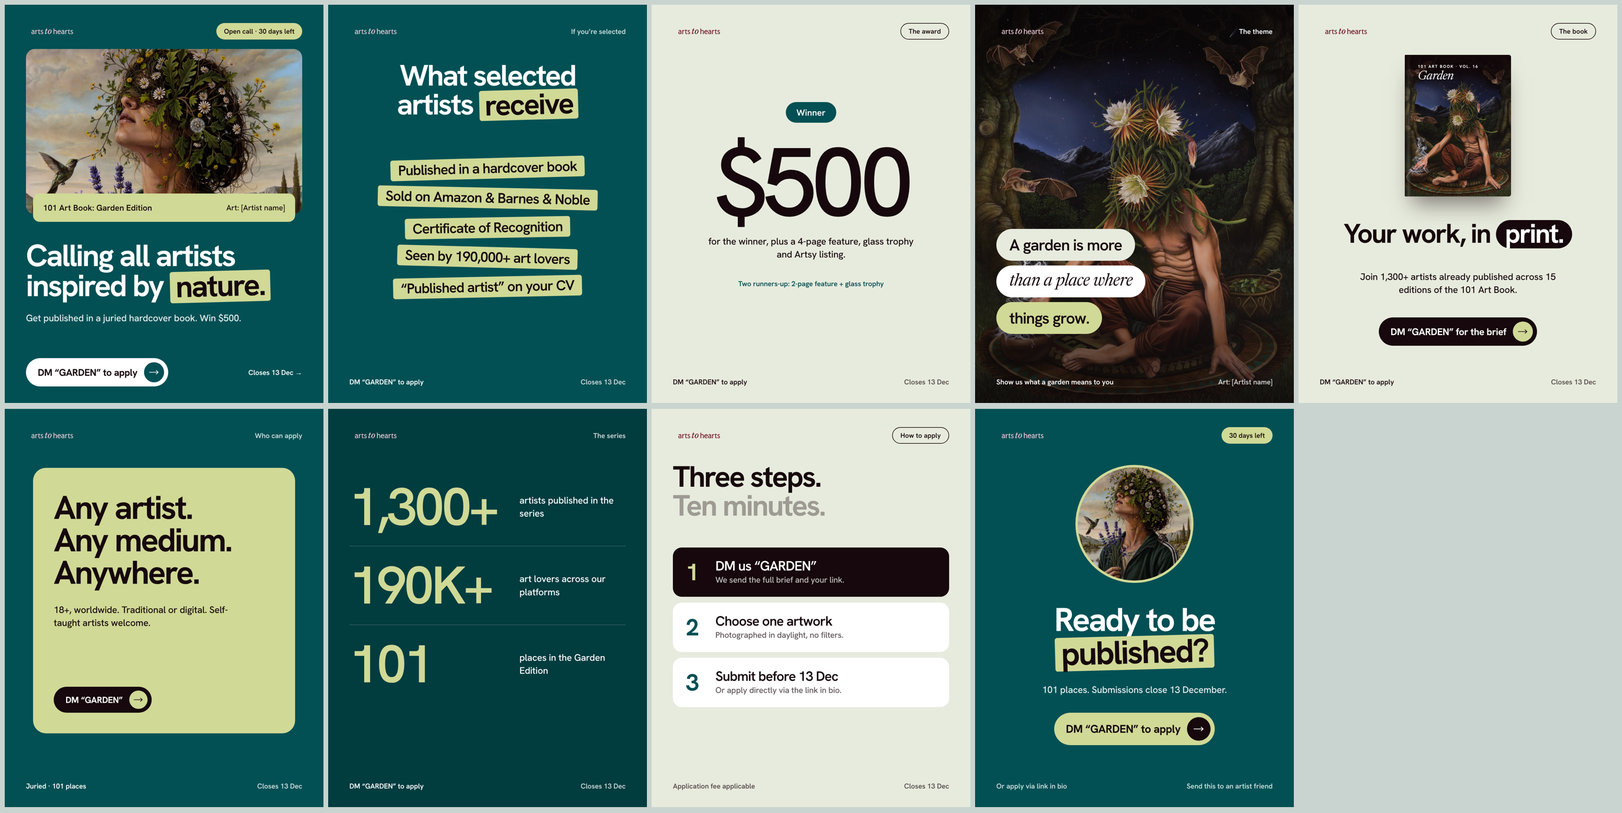
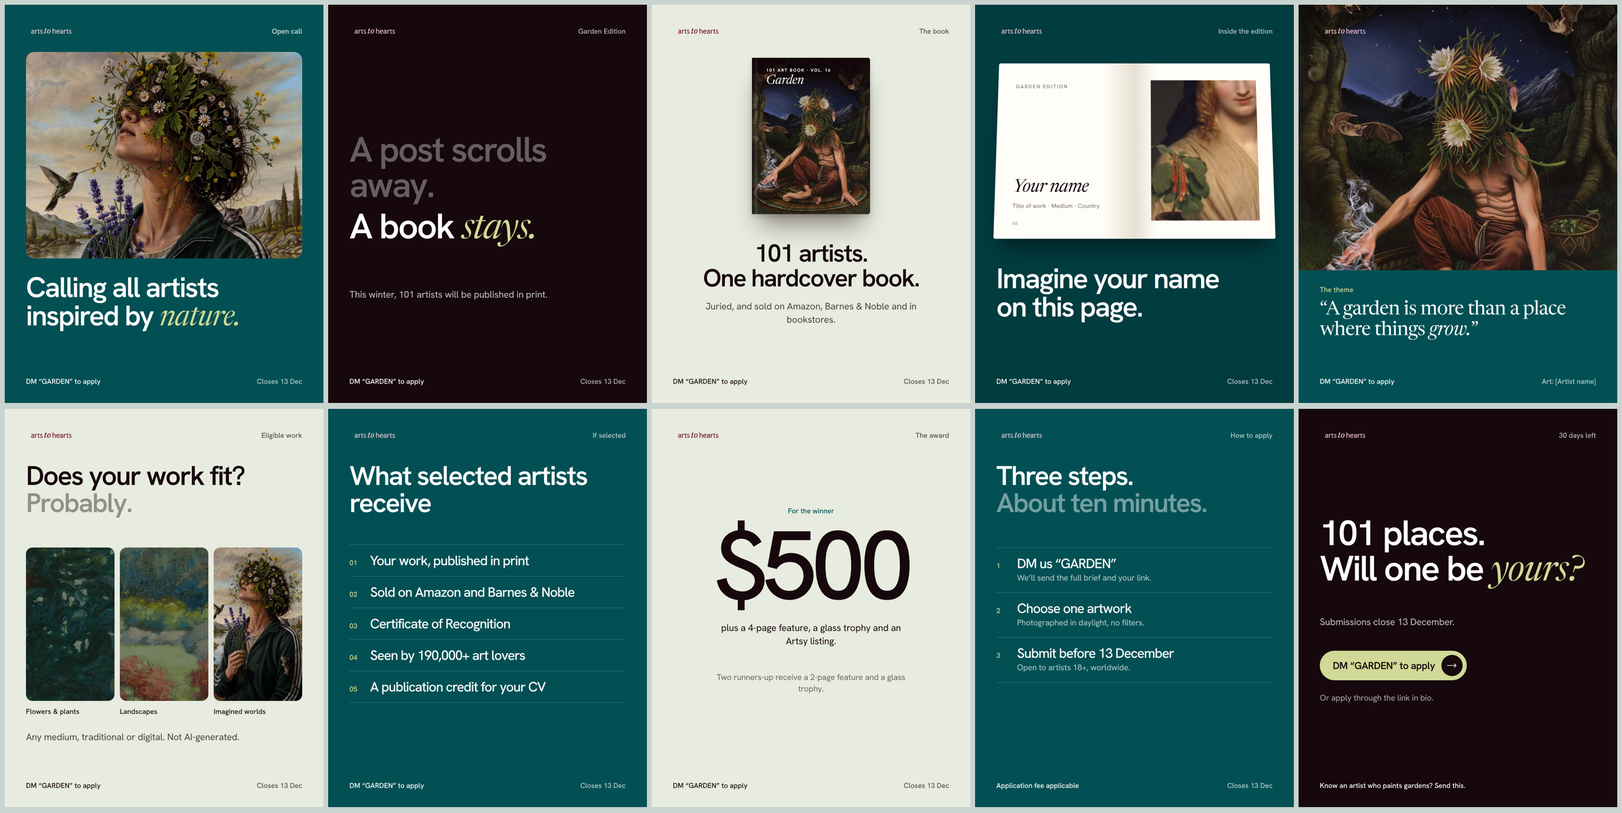
Garden launch v8: calmer cover, uncovered theme art, pattern-break slides
Claude-Session: https://claude.ai/code/session_01Bc4gkdxg6i3YRuybqzVB3k

diff --git a/design/campaigns/open-calls/launch-bf.html b/design/campaigns/open-calls/launch-bf.html
@@ -3,134 +3,141 @@
 <style>
 @font-face{font-family:HG;src:url(fonts/ath/HankenGrotesk.woff2) format("woff2");font-weight:100 900}
 @font-face{font-family:NR;src:url(fonts/ath/Newsreader-Italic.woff2) format("woff2");font-style:italic;font-weight:200 800}
-:root{--pet:#025054;--pet2:#013C3F;--pi:#D0D996;--mint:#E7EBDD;--ink:#16080C;--burg:#6A0620;--paper:#FAF8F3}
+@font-face{font-family:NR;src:url(fonts/ath/Newsreader.woff2) format("woff2");font-weight:200 800}
+:root{--pet:#025054;--pet2:#013C3F;--pi:#D0D996;--mint:#E8EBDF;--ink:#16080C;--paper:#FAF8F3}
 body{margin:0;background:#C9D3CF;display:flex;flex-wrap:wrap;gap:40px;padding:40px}
 .s{position:relative;width:1080px;height:1350px;overflow:hidden;font-family:HG,sans-serif;-webkit-font-smoothing:antialiased}
 .s *{margin:0;box-sizing:border-box}
 .a{position:absolute}
 .dk{background:var(--pet);color:#fff}.lt{background:var(--mint);color:var(--ink)}
-/* type: bold grotesk for headlines, one italic serif accent at most */
-.H{font-weight:700;letter-spacing:-.045em;line-height:.98}
-.H2{font-weight:600;letter-spacing:-.035em;line-height:1.05}
+.H{font-weight:600;letter-spacing:-.042em;line-height:1}
 .it{font-family:NR,serif;font-style:italic;font-weight:400;letter-spacing:-.02em}
-.p{font-size:32px;font-weight:500;line-height:1.38;letter-spacing:-.01em}
-.l{font-size:24px;font-weight:600;letter-spacing:-.005em}
-.mk{display:inline-block;background:var(--pi);color:var(--ink);padding:0 .18em .04em;border-radius:8px;transform:rotate(-1.5deg)}
+.p{font-size:32px;font-weight:400;line-height:1.4;letter-spacing:-.01em}
+.l{font-size:24px;font-weight:500}
 .img{background-size:cover;background-repeat:no-repeat}
 .top{left:72px;right:72px;top:62px;display:flex;justify-content:space-between;align-items:center}
-.top img{height:56px}
-.bot{left:72px;right:72px;bottom:56px;display:flex;justify-content:space-between;align-items:center}
-.btn{display:inline-flex;align-items:center;gap:22px;height:96px;padding:0 14px 0 40px;border-radius:999px;font-size:33px;font-weight:700;letter-spacing:-.02em;white-space:nowrap}
-.btn i{width:68px;height:68px;border-radius:50%;display:inline-flex;align-items:center;justify-content:center;font-style:normal}
-.tag{display:inline-flex;align-items:center;height:56px;padding:0 26px;border-radius:999px;font-size:23px;font-weight:600;white-space:nowrap}
+.top img{height:54px}
+.bot{left:72px;right:72px;bottom:58px;display:flex;justify-content:space-between;align-items:center;font-size:24px;font-weight:500}
+.bot span:last-child{opacity:.7}
+.btn{display:inline-flex;align-items:center;gap:22px;height:100px;padding:0 14px 0 44px;border-radius:999px;font-size:34px;font-weight:600;letter-spacing:-.02em;white-space:nowrap}
+.btn i{width:72px;height:72px;border-radius:50%;display:inline-flex;align-items:center;justify-content:center;font-style:normal}
+.row{display:grid;grid-template-columns:70px 1fr;align-items:baseline;padding:30px 0;border-top:1.5px solid currentColor}
 </style></head><body>
 <svg width="0" height="0" style="position:absolute"><symbol id="ar" viewBox="0 0 46 20"><path d="M2 10h40M33 2l9 8-9 8" fill="none" stroke="currentColor" stroke-width="3" stroke-linecap="round" stroke-linejoin="round"/></symbol></svg>
 
-<!-- 1 · HOOK -->
+<!-- 1 · COVER: one image, one line, one action -->
 <div class="s dk" id="s1">
-  <div class="a top"><img src="art/logo-no-project_peony.svg"><span class="tag" style="background:var(--pi);color:var(--ink)">Open call · 30 days left</span></div>
-  <div class="a img" style="left:72px;right:72px;top:150px;height:560px;border-radius:30px;background-image:url(art/flower-portrait.jpg);background-position:center 16%"></div>
-  <div class="a" style="left:96px;right:96px;top:640px;height:96px;border-radius:22px;background:var(--pi);color:var(--ink);display:flex;align-items:center;justify-content:space-between;padding:0 34px">
-    <span style="font-size:28px;font-weight:600">101 Art Book: Garden Edition</span><span style="font-size:26px;font-weight:500">Art: [Artist name]</span></div>
-  <h1 class="a H" style="left:72px;right:60px;top:800px;font-size:104px">Calling all artists inspired by <span class="mk">nature.</span></h1>
-  <p class="a p" style="left:72px;right:120px;top:1040px;opacity:.9">Get published in a juried hardcover book. Win $500.</p>
-  <div class="a bot"><span class="btn" style="background:#fff;color:var(--ink)">DM “GARDEN” to apply<i style="background:var(--pet);color:#fff"><svg width="34" height="16"><use href="#ar"/></svg></i></span><span class="l">Closes 13 Dec →</span></div>
+  <div class="a top"><img src="art/logo-no-project_peony.svg"><span class="l" style="opacity:.85">Open call</span></div>
+  <div class="a img" style="left:72px;right:72px;top:160px;height:700px;border-radius:28px;background-image:url(art/flower-portrait.jpg);background-position:center 14%"></div>
+  <h1 class="a H" style="left:72px;right:72px;top:910px;font-size:96px">Calling all artists inspired by <span class="it" style="color:var(--pi)">nature.</span></h1>
+  <div class="a bot"><span>DM “GARDEN” to apply</span><span>Closes 13 Dec</span></div>
 </div>
 
-<!-- 2 · WHAT YOU GET (Pixel list) -->
-<div class="s dk" id="s2">
-  <div class="a top"><img src="art/logo-no-project_peony.svg"><span class="l" style="opacity:.8">If you’re selected</span></div>
-  <h2 class="a H" style="left:72px;right:72px;top:190px;font-size:100px;text-align:center">What selected<br>artists <span class="mk">receive</span></h2>
-  <div class="a" style="left:0;right:0;top:520px;display:flex;flex-direction:column;align-items:center;gap:30px">
-    <span class="mk H2" style="font-size:48px;padding:10px 26px;transform:rotate(-1.5deg)">Published in a hardcover book</span>
-    <span class="mk H2" style="font-size:48px;padding:10px 26px;transform:rotate(1.2deg)">Sold on Amazon &amp; Barnes &amp; Noble</span>
-    <span class="mk H2" style="font-size:48px;padding:10px 26px;transform:rotate(-1deg)">Certificate of Recognition</span>
-    <span class="mk H2" style="font-size:48px;padding:10px 26px;transform:rotate(1.5deg)">Seen by 190,000+ art lovers</span>
-    <span class="mk H2" style="font-size:48px;padding:10px 26px;transform:rotate(-1.2deg)">“Published artist” on your CV</span>
-  </div>
-  <div class="a bot"><span class="l">DM “GARDEN” to apply</span><span class="l" style="opacity:.8">Closes 13 Dec</span></div>
+<!-- 2 · PATTERN BREAK: the reason to care -->
+<div class="s" id="s2" style="background:var(--ink);color:#fff">
+  <div class="a top"><img src="art/logo-no-project_peony.svg"><span class="l" style="opacity:.7">Garden Edition</span></div>
+  <p class="a H" style="left:72px;right:72px;top:430px;font-size:120px;opacity:.35">A post scrolls away.</p>
+  <p class="a H" style="left:72px;right:72px;top:690px;font-size:120px">A book <span class="it" style="color:var(--pi)">stays.</span></p>
+  <p class="a p" style="left:72px;right:300px;top:960px;opacity:.75">This winter, 101 artists will be published in print.</p>
+  <div class="a bot"><span>DM “GARDEN” to apply</span><span>Closes 13 Dec</span></div>
 </div>
 
-<!-- 3 · THE AWARD (92% style) -->
+<!-- 3 · THE BOOK -->
 <div class="s lt" id="s3">
-  <div class="a top"><img src="art/logo-no-project_burgundy.svg"><span class="tag" style="border:2px solid var(--ink)">The award</span></div>
-  <span class="a tag" style="left:50%;top:330px;transform:translateX(-50%);height:70px;padding:0 36px;font-size:30px;background:var(--pet);color:#fff">Winner</span>
-  <p class="a H" style="left:0;right:0;top:440px;text-align:center;font-size:330px;font-weight:500;letter-spacing:-.06em">$500</p>
-  <p class="a p" style="left:180px;right:180px;top:780px;text-align:center">for the winner, plus a 4-page feature, glass trophy and Artsy listing.</p>
-  <p class="a l" style="left:0;right:0;top:930px;text-align:center;color:var(--pet)">Two runners-up: 2-page feature + glass trophy</p>
-  <div class="a bot"><span class="l">DM “GARDEN” to apply</span><span class="l" style="opacity:.7">Closes 13 Dec</span></div>
-</div>
-
-<!-- 4 · THE THEME (image + pill stack) -->
-<div class="s" id="s4" style="color:#fff">
-  <div class="a img" style="inset:0;background-image:url(art/night-bloom.jpg);background-position:center 40%"></div>
-  <div class="a" style="inset:0;background:linear-gradient(180deg,rgba(10,6,8,.55),rgba(10,6,8,0) 28%,rgba(10,6,8,0) 60%,rgba(10,6,8,.75))"></div>
-  <div class="a top"><img src="art/logo-no-project_peony.svg"><span class="l">The theme</span></div>
-  <div class="a" style="left:72px;right:72px;top:760px;display:flex;flex-direction:column;align-items:flex-start;gap:16px">
-    <span class="tag H2" style="height:108px;padding:0 44px;font-size:54px;background:var(--mint);color:var(--ink)">A garden is more</span>
-    <span class="tag" style="height:108px;padding:0 44px;font-size:58px;background:#fff;color:var(--ink)"><span class="it">than a place where</span></span>
-    <span class="tag H2" style="height:108px;padding:0 44px;font-size:54px;background:var(--pi);color:var(--ink)">things grow.</span>
-  </div>
-  <div class="a bot"><span class="l">Show us what a garden means to you</span><span class="l" style="opacity:.8">Art: [Artist name]</span></div>
-</div>
-
-<!-- 5 · THE BOOK -->
-<div class="s lt" id="s5">
-  <div class="a top"><img src="art/logo-no-project_burgundy.svg"><span class="tag" style="border:2px solid var(--ink)">The book</span></div>
-  <div class="a" style="left:360px;top:170px;width:360px;height:480px;border-radius:3px 8px 8px 3px;overflow:hidden;box-shadow:0 50px 70px -26px rgba(22,8,12,.5)">
+  <div class="a top"><img src="art/logo-no-project_burgundy.svg"><span class="l" style="opacity:.7">The book</span></div>
+  <div class="a" style="left:340px;top:180px;width:400px;height:530px;border-radius:3px 8px 8px 3px;overflow:hidden;box-shadow:0 60px 80px -30px rgba(22,8,12,.5),0 8px 18px rgba(22,8,12,.15)">
     <div class="a img" style="inset:0;background-image:url(art/night-bloom.jpg);background-position:center 35%"></div>
-    <div class="a" style="left:0;top:0;bottom:0;width:22px;background:linear-gradient(90deg,rgba(0,0,0,.4),rgba(255,255,255,.12) 60%,rgba(0,0,0,.12))"></div>
-    <div class="a" style="left:0;right:0;top:0;height:130px;background:linear-gradient(180deg,rgba(20,6,10,.8),rgba(20,6,10,0))"></div>
-    <p class="a" style="left:44px;top:30px;color:#fff;font-size:14px;font-weight:700;letter-spacing:.16em">101 ART BOOK · VOL. 16</p>
-    <p class="a it" style="left:44px;top:52px;color:#fff;font-size:42px">Garden</p>
+    <div class="a" style="left:0;top:0;bottom:0;width:24px;background:linear-gradient(90deg,rgba(0,0,0,.4),rgba(255,255,255,.12) 60%,rgba(0,0,0,.12))"></div>
+    <div class="a" style="left:0;right:0;top:0;height:140px;background:linear-gradient(180deg,rgba(20,6,10,.8),rgba(20,6,10,0))"></div>
+    <p class="a" style="left:48px;top:32px;color:#fff;font-size:15px;font-weight:700;letter-spacing:.16em">101 ART BOOK · VOL. 16</p>
+    <p class="a it" style="left:48px;top:56px;color:#fff;font-size:44px">Garden</p>
   </div>
-  <h2 class="a H" style="left:72px;right:72px;top:730px;font-size:92px;text-align:center">Your work, in <span class="tag" style="height:auto;padding:0 30px 6px;font-size:92px;font-weight:700;letter-spacing:-.045em;background:var(--ink);color:#fff">print.</span></h2>
-  <p class="a p" style="left:150px;right:150px;top:900px;text-align:center">Join 1,300+ artists already published across 15 editions of the 101 Art Book.</p>
-  <div class="a" style="left:0;right:0;top:1060px;display:flex;justify-content:center"><span class="btn" style="background:var(--ink);color:#fff">DM “GARDEN” for the brief<i style="background:var(--pi);color:var(--ink)"><svg width="34" height="16"><use href="#ar"/></svg></i></span></div>
-  <div class="a bot"><span class="l">DM “GARDEN” to apply</span><span class="l" style="opacity:.7">Closes 13 Dec</span></div>
+  <h2 class="a H" style="left:72px;right:72px;top:800px;font-size:84px;text-align:center">101 artists.<br>One hardcover book.</h2>
+  <p class="a p" style="left:160px;right:160px;top:1000px;text-align:center;opacity:.75">Juried, and sold on Amazon, Barnes &amp; Noble and in bookstores.</p>
+  <div class="a bot"><span>DM “GARDEN” to apply</span><span>Closes 13 Dec</span></div>
 </div>
 
-<!-- 6 · WHO CAN APPLY (Pixel card) -->
-<div class="s dk" id="s6">
-  <div class="a top"><img src="art/logo-no-project_peony.svg"><span class="l" style="opacity:.8">Who can apply</span></div>
-  <div class="a" style="left:96px;right:96px;top:200px;height:900px;border-radius:44px;background:var(--pi);color:var(--ink);padding:80px 70px">
-    <p class="H" style="font-size:112px">Any artist.<br>Any medium.<br>Anywhere.</p>
-    <p class="p" style="margin-top:50px;width:640px">18+, worldwide. Traditional or digital. Self-taught artists welcome.</p>
-    <span class="btn" style="position:absolute;left:70px;bottom:70px;background:var(--ink);color:#fff;height:88px;font-size:30px">DM “GARDEN”<i style="background:var(--pi);color:var(--ink);width:62px;height:62px"><svg width="32" height="16"><use href="#ar"/></svg></i></span>
+<!-- 4 · PATTERN BREAK: picture yourself in it -->
+<div class="s dk" id="s4" style="background:var(--pet2)">
+  <div class="a top"><img src="art/logo-no-project_peony.svg"><span class="l" style="opacity:.7">Inside the edition</span></div>
+  <div class="a" style="left:72px;right:72px;top:190px;height:600px;box-shadow:0 50px 70px -26px rgba(0,0,0,.55);transform:perspective(2000px) rotateX(8deg)">
+    <div class="a" style="left:0;top:0;width:50%;height:100%;background:linear-gradient(90deg,#FFFDF8 78%,#E6DFD2);border-radius:6px 0 0 6px;color:var(--ink)">
+      <p class="a" style="left:60px;top:70px;font-size:18px;font-weight:600;letter-spacing:.14em;opacity:.5">GARDEN EDITION</p>
+      <p class="a it" style="left:60px;bottom:140px;font-size:60px">Your name</p>
+      <p class="a" style="left:60px;bottom:96px;font-size:20px;opacity:.6">Title of work · Medium · Country</p>
+      <p class="a" style="left:60px;bottom:40px;font-size:17px;opacity:.4">48</p></div>
+    <div class="a" style="right:0;top:0;width:50%;height:100%;background:linear-gradient(90deg,#E6DFD2,#FFFDF8 16%);border-radius:0 6px 6px 0">
+      <div class="a img" style="left:56px;top:60px;right:50px;bottom:60px;background-image:url(art/call-garden.jpg);background-position:30% 40%"></div></div>
   </div>
-  <div class="a bot"><span class="l">Juried · 101 places</span><span class="l" style="opacity:.8">Closes 13 Dec</span></div>
+  <h2 class="a H" style="left:72px;right:72px;top:880px;font-size:96px">Imagine your name<br>on this page.</h2>
+  <div class="a bot"><span>DM “GARDEN” to apply</span><span>Closes 13 Dec</span></div>
 </div>
 
-<!-- 7 · PROOF IN NUMBERS (Pixel stats) -->
-<div class="s dk" id="s7" style="background:var(--pet2)">
-  <div class="a top"><img src="art/logo-no-project_peony.svg"><span class="l" style="opacity:.8">The series</span></div>
-  <div class="a" style="left:72px;right:72px;top:200px">
-    <div style="display:grid;grid-template-columns:1fr 360px;align-items:center;padding:44px 0;border-bottom:2px solid rgba(255,255,255,.18)"><p class="H" style="font-size:180px;font-weight:600;color:var(--pi)">1,300+</p><p class="p">artists published in the series</p></div>
-    <div style="display:grid;grid-template-columns:1fr 360px;align-items:center;padding:44px 0;border-bottom:2px solid rgba(255,255,255,.18)"><p class="H" style="font-size:180px;font-weight:600;color:var(--pi)">190K+</p><p class="p">art lovers across our platforms</p></div>
-    <div style="display:grid;grid-template-columns:1fr 360px;align-items:center;padding:44px 0"><p class="H" style="font-size:180px;font-weight:600;color:var(--pi)">101</p><p class="p">places in the Garden Edition</p></div>
-  </div>
-  <div class="a bot"><span class="l">DM “GARDEN” to apply</span><span class="l" style="opacity:.8">Closes 13 Dec</span></div>
+<!-- 5 · THE THEME: artwork left fully visible -->
+<div class="s dk" id="s5">
+  <div class="a img" style="left:0;right:0;top:0;height:900px;background-image:url(art/night-bloom.jpg);background-position:center 42%"></div>
+  <img class="a" src="art/logo-no-project_peony.svg" style="left:72px;top:62px;height:54px">
+  <p class="a l" style="left:72px;top:950px;color:var(--pi)">The theme</p>
+  <p class="a" style="left:72px;right:72px;top:1000px;font-family:NR,serif;font-size:66px;line-height:1.06;letter-spacing:-.02em">“A garden is more than a place where things <i>grow.</i>”</p>
+  <div class="a bot"><span>DM “GARDEN” to apply</span><span>Art: [Artist name]</span></div>
 </div>
 
-<!-- 8 · HOW TO APPLY: the DM is step one -->
+<!-- 6 · PATTERN BREAK: does my work count? (visual) -->
+<div class="s lt" id="s6">
+  <div class="a top"><img src="art/logo-no-project_burgundy.svg"><span class="l" style="opacity:.7">Eligible work</span></div>
+  <h2 class="a H" style="left:72px;right:72px;top:180px;font-size:92px">Does your work fit?<br><span style="opacity:.4">Probably.</span></h2>
+  <div class="a" style="left:72px;right:72px;top:470px;display:grid;grid-template-columns:repeat(3,1fr);gap:18px">
+    <div><div class="img" style="height:520px;border-radius:22px;background-image:url(art/ref-dahlias.jpg);background-position:40% 30%;background-size:auto 130%"></div><p class="l" style="margin-top:20px">Flowers &amp; plants</p></div>
+    <div><div class="img" style="height:520px;border-radius:22px;background-image:url(art/ref-reid.jpg);background-position:30% center;background-size:auto 100%"></div><p class="l" style="margin-top:20px">Landscapes</p></div>
+    <div><div class="img" style="height:520px;border-radius:22px;background-image:url(art/flower-portrait.jpg);background-position:center 20%"></div><p class="l" style="margin-top:20px">Imagined worlds</p></div>
+  </div>
+  <p class="a p" style="left:72px;right:72px;top:1090px;opacity:.75">Any medium, traditional or digital. Not AI-generated.</p>
+  <div class="a bot"><span>DM “GARDEN” to apply</span><span>Closes 13 Dec</span></div>
+</div>
+
+<!-- 7 · WHAT YOU RECEIVE: quiet list -->
+<div class="s dk" id="s7">
+  <div class="a top"><img src="art/logo-no-project_peony.svg"><span class="l" style="opacity:.7">If selected</span></div>
+  <h2 class="a H" style="left:72px;right:72px;top:180px;font-size:92px">What selected artists receive</h2>
+  <div class="a" style="left:72px;right:72px;top:460px;border-bottom:1.5px solid rgba(255,255,255,.3)">
+    <div class="row" style="border-color:rgba(255,255,255,.3)"><span class="l" style="color:var(--pi)">01</span><p class="H" style="font-size:46px;font-weight:500">Your work, published in print</p></div>
+    <div class="row" style="border-color:rgba(255,255,255,.3)"><span class="l" style="color:var(--pi)">02</span><p class="H" style="font-size:46px;font-weight:500">Sold on Amazon and Barnes &amp; Noble</p></div>
+    <div class="row" style="border-color:rgba(255,255,255,.3)"><span class="l" style="color:var(--pi)">03</span><p class="H" style="font-size:46px;font-weight:500">Certificate of Recognition</p></div>
+    <div class="row" style="border-color:rgba(255,255,255,.3)"><span class="l" style="color:var(--pi)">04</span><p class="H" style="font-size:46px;font-weight:500">Seen by 190,000+ art lovers</p></div>
+    <div class="row" style="border-color:rgba(255,255,255,.3)"><span class="l" style="color:var(--pi)">05</span><p class="H" style="font-size:46px;font-weight:500">A publication credit for your CV</p></div>
+  </div>
+  <div class="a bot"><span>DM “GARDEN” to apply</span><span>Closes 13 Dec</span></div>
+</div>
+
+<!-- 8 · THE AWARD -->
 <div class="s lt" id="s8">
-  <div class="a top"><img src="art/logo-no-project_burgundy.svg"><span class="tag" style="border:2px solid var(--ink)">How to apply</span></div>
-  <h2 class="a H" style="left:72px;right:72px;top:180px;font-size:100px">Three steps.<br><span style="opacity:.35">Ten minutes.</span></h2>
-  <div class="a" style="left:72px;right:72px;top:470px;display:flex;flex-direction:column;gap:20px">
-    <div style="background:var(--ink);color:#fff;border-radius:30px;padding:38px 44px;display:grid;grid-template-columns:100px 1fr;align-items:center"><p class="H" style="font-size:80px;color:var(--pi)">1</p><div><p class="H2" style="font-size:46px">DM us “GARDEN”</p><p class="p" style="font-size:28px;opacity:.75;margin-top:4px">We send the full brief and your link.</p></div></div>
-    <div style="background:#fff;border-radius:30px;padding:38px 44px;display:grid;grid-template-columns:100px 1fr;align-items:center"><p class="H" style="font-size:80px;color:var(--pet)">2</p><div><p class="H2" style="font-size:46px">Choose one artwork</p><p class="p" style="font-size:28px;opacity:.7;margin-top:4px">Photographed in daylight, no filters.</p></div></div>
-    <div style="background:#fff;border-radius:30px;padding:38px 44px;display:grid;grid-template-columns:100px 1fr;align-items:center"><p class="H" style="font-size:80px;color:var(--pet)">3</p><div><p class="H2" style="font-size:46px">Submit before 13 Dec</p><p class="p" style="font-size:28px;opacity:.7;margin-top:4px">Or apply directly via the link in bio.</p></div></div>
-  </div>
-  <div class="a bot"><span class="l" style="opacity:.7">Application fee applicable</span><span class="l" style="opacity:.7">Closes 13 Dec</span></div>
+  <div class="a top"><img src="art/logo-no-project_burgundy.svg"><span class="l" style="opacity:.7">The award</span></div>
+  <p class="a l" style="left:0;right:0;top:330px;text-align:center;color:var(--pet)">For the winner</p>
+  <p class="a H" style="left:0;right:0;top:390px;text-align:center;font-size:330px;font-weight:500;letter-spacing:-.06em;line-height:.85">$500</p>
+  <p class="a p" style="left:200px;right:200px;top:720px;text-align:center">plus a 4-page feature, a glass trophy and an Artsy listing.</p>
+  <p class="a p" style="left:200px;right:200px;top:890px;text-align:center;opacity:.6;font-size:28px">Two runners-up receive a 2-page feature and a glass trophy.</p>
+  <div class="a bot"><span>DM “GARDEN” to apply</span><span>Closes 13 Dec</span></div>
 </div>
 
-<!-- 9 · CTA (Pixel "Ready to stand out?") -->
+<!-- 9 · HOW TO APPLY -->
 <div class="s dk" id="s9">
-  <div class="a top"><img src="art/logo-no-project_peony.svg"><span class="tag" style="background:var(--pi);color:var(--ink)">30 days left</span></div>
-  <div class="a img" style="left:340px;top:190px;width:400px;height:400px;border-radius:50%;background-image:url(art/flower-portrait.jpg);background-position:center 18%;border:8px solid var(--pi)"></div>
-  <h2 class="a H" style="left:72px;right:72px;top:660px;font-size:112px;text-align:center">Ready to be<br><span class="mk">published?</span></h2>
-  <p class="a p" style="left:160px;right:160px;top:930px;text-align:center;opacity:.9">101 places. Submissions close 13 December.</p>
-  <div class="a" style="left:0;right:0;top:1030px;display:flex;justify-content:center"><span class="btn" style="background:var(--pi);color:var(--ink);height:110px;font-size:38px">DM “GARDEN” to apply<i style="background:var(--ink);color:#fff;width:80px;height:80px"><svg width="36" height="16"><use href="#ar"/></svg></i></span></div>
-  <div class="a bot"><span class="l" style="opacity:.8">Or apply via link in bio</span><span class="l" style="opacity:.8">Send this to an artist friend</span></div>
+  <div class="a top"><img src="art/logo-no-project_peony.svg"><span class="l" style="opacity:.7">How to apply</span></div>
+  <h2 class="a H" style="left:72px;right:72px;top:180px;font-size:92px">Three steps.<br><span style="opacity:.45">About ten minutes.</span></h2>
+  <div class="a" style="left:72px;right:72px;top:470px;border-bottom:1.5px solid rgba(255,255,255,.3)">
+    <div class="row" style="border-color:rgba(255,255,255,.3)"><span class="l" style="color:var(--pi)">1</span><div><p class="H" style="font-size:46px;font-weight:500">DM us “GARDEN”</p><p class="p" style="font-size:28px;opacity:.7;margin-top:6px">We’ll send the full brief and your link.</p></div></div>
+    <div class="row" style="border-color:rgba(255,255,255,.3)"><span class="l" style="color:var(--pi)">2</span><div><p class="H" style="font-size:46px;font-weight:500">Choose one artwork</p><p class="p" style="font-size:28px;opacity:.7;margin-top:6px">Photographed in daylight, no filters.</p></div></div>
+    <div class="row" style="border-color:rgba(255,255,255,.3)"><span class="l" style="color:var(--pi)">3</span><div><p class="H" style="font-size:46px;font-weight:500">Submit before 13 December</p><p class="p" style="font-size:28px;opacity:.7;margin-top:6px">Open to artists 18+, worldwide.</p></div></div>
+  </div>
+  <div class="a bot"><span>Application fee applicable</span><span>Closes 13 Dec</span></div>
+</div>
+
+<!-- 10 · CTA -->
+<div class="s" id="s10" style="background:var(--ink);color:#fff">
+  <div class="a top"><img src="art/logo-no-project_peony.svg"><span class="l" style="opacity:.7">30 days left</span></div>
+  <h2 class="a H" style="left:72px;right:72px;top:360px;font-size:120px">101 places.<br>Will one be <span class="it" style="color:var(--pi)">yours?</span></h2>
+  <p class="a p" style="left:72px;right:200px;top:700px;opacity:.75">Submissions close 13 December.</p>
+  <div class="a" style="left:72px;top:820px"><span class="btn" style="background:var(--pi);color:var(--ink)">DM “GARDEN” to apply<i style="background:var(--ink);color:#fff"><svg width="34" height="16"><use href="#ar"/></svg></i></span></div>
+  <p class="a p" style="left:72px;top:960px;font-size:28px;opacity:.65">Or apply through the link in bio.</p>
+  <div class="a bot"><span>Know an artist who paints gardens? Send this.</span><span></span></div>
 </div>
 </body></html>
